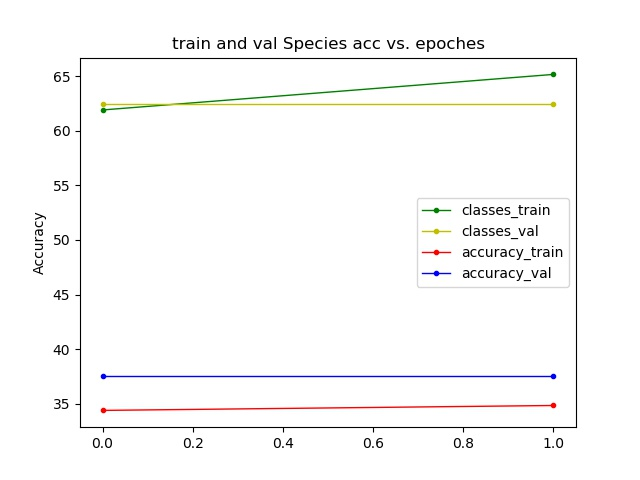
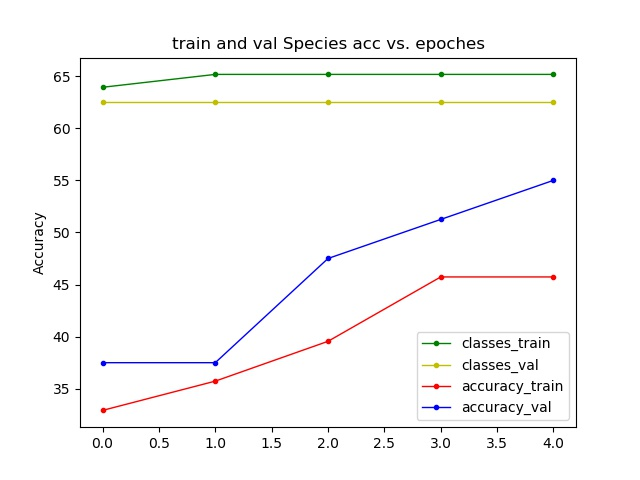
update new content

diff --git a/Project/Project_I/Stage_3 Multi-classification/Multi-classification.py b/Project/Project_I/Stage_3 Multi-classification/Multi-classification.py
@@ -22,7 +22,7 @@ TRAIN_ANNO = 'Multi_train_annotation.csv'
 VAL_ANNO = 'Multi_val_annotation.csv'
 CLASSES = ['Mammals', 'Birds']
 SPECIES = ['rabbits', 'rats', 'chickens']
-NUM_EPOCGES = 20
+NUM_EPOCGES = 50
 
 class MyDataset(Dataset):
 
@@ -163,8 +163,8 @@ def train_model(model, criterion, optimizer, scheduler, num_epochs=50):
     return model, Loss_list,Accuracy_list_classes ,Accuracy_list_species
 
 network = Net().to(device)
-# optimizer = optim.SGD(network.parameters(), lr=0.01, momentum=0.9)
-optimizer = optim.Adam(network.parameters(), lr=0.01)
+optimizer = optim.SGD(network.parameters(), lr=0.01, momentum=0.9)
+#optimizer = optim.Adam(network.parameters(), lr=0.1)
 criterion = nn.CrossEntropyLoss()
 exp_lr_scheduler = lr_scheduler.StepLR(optimizer, step_size=1, gamma=0.1) # Decay LR by a factor of 0.1 every 1 epochs
 model, Loss_list, Accuracy_list_classes, Accuracy_list_species = train_model(network, criterion, optimizer, scheduler=exp_lr_scheduler, num_epochs=NUM_EPOCGES)
